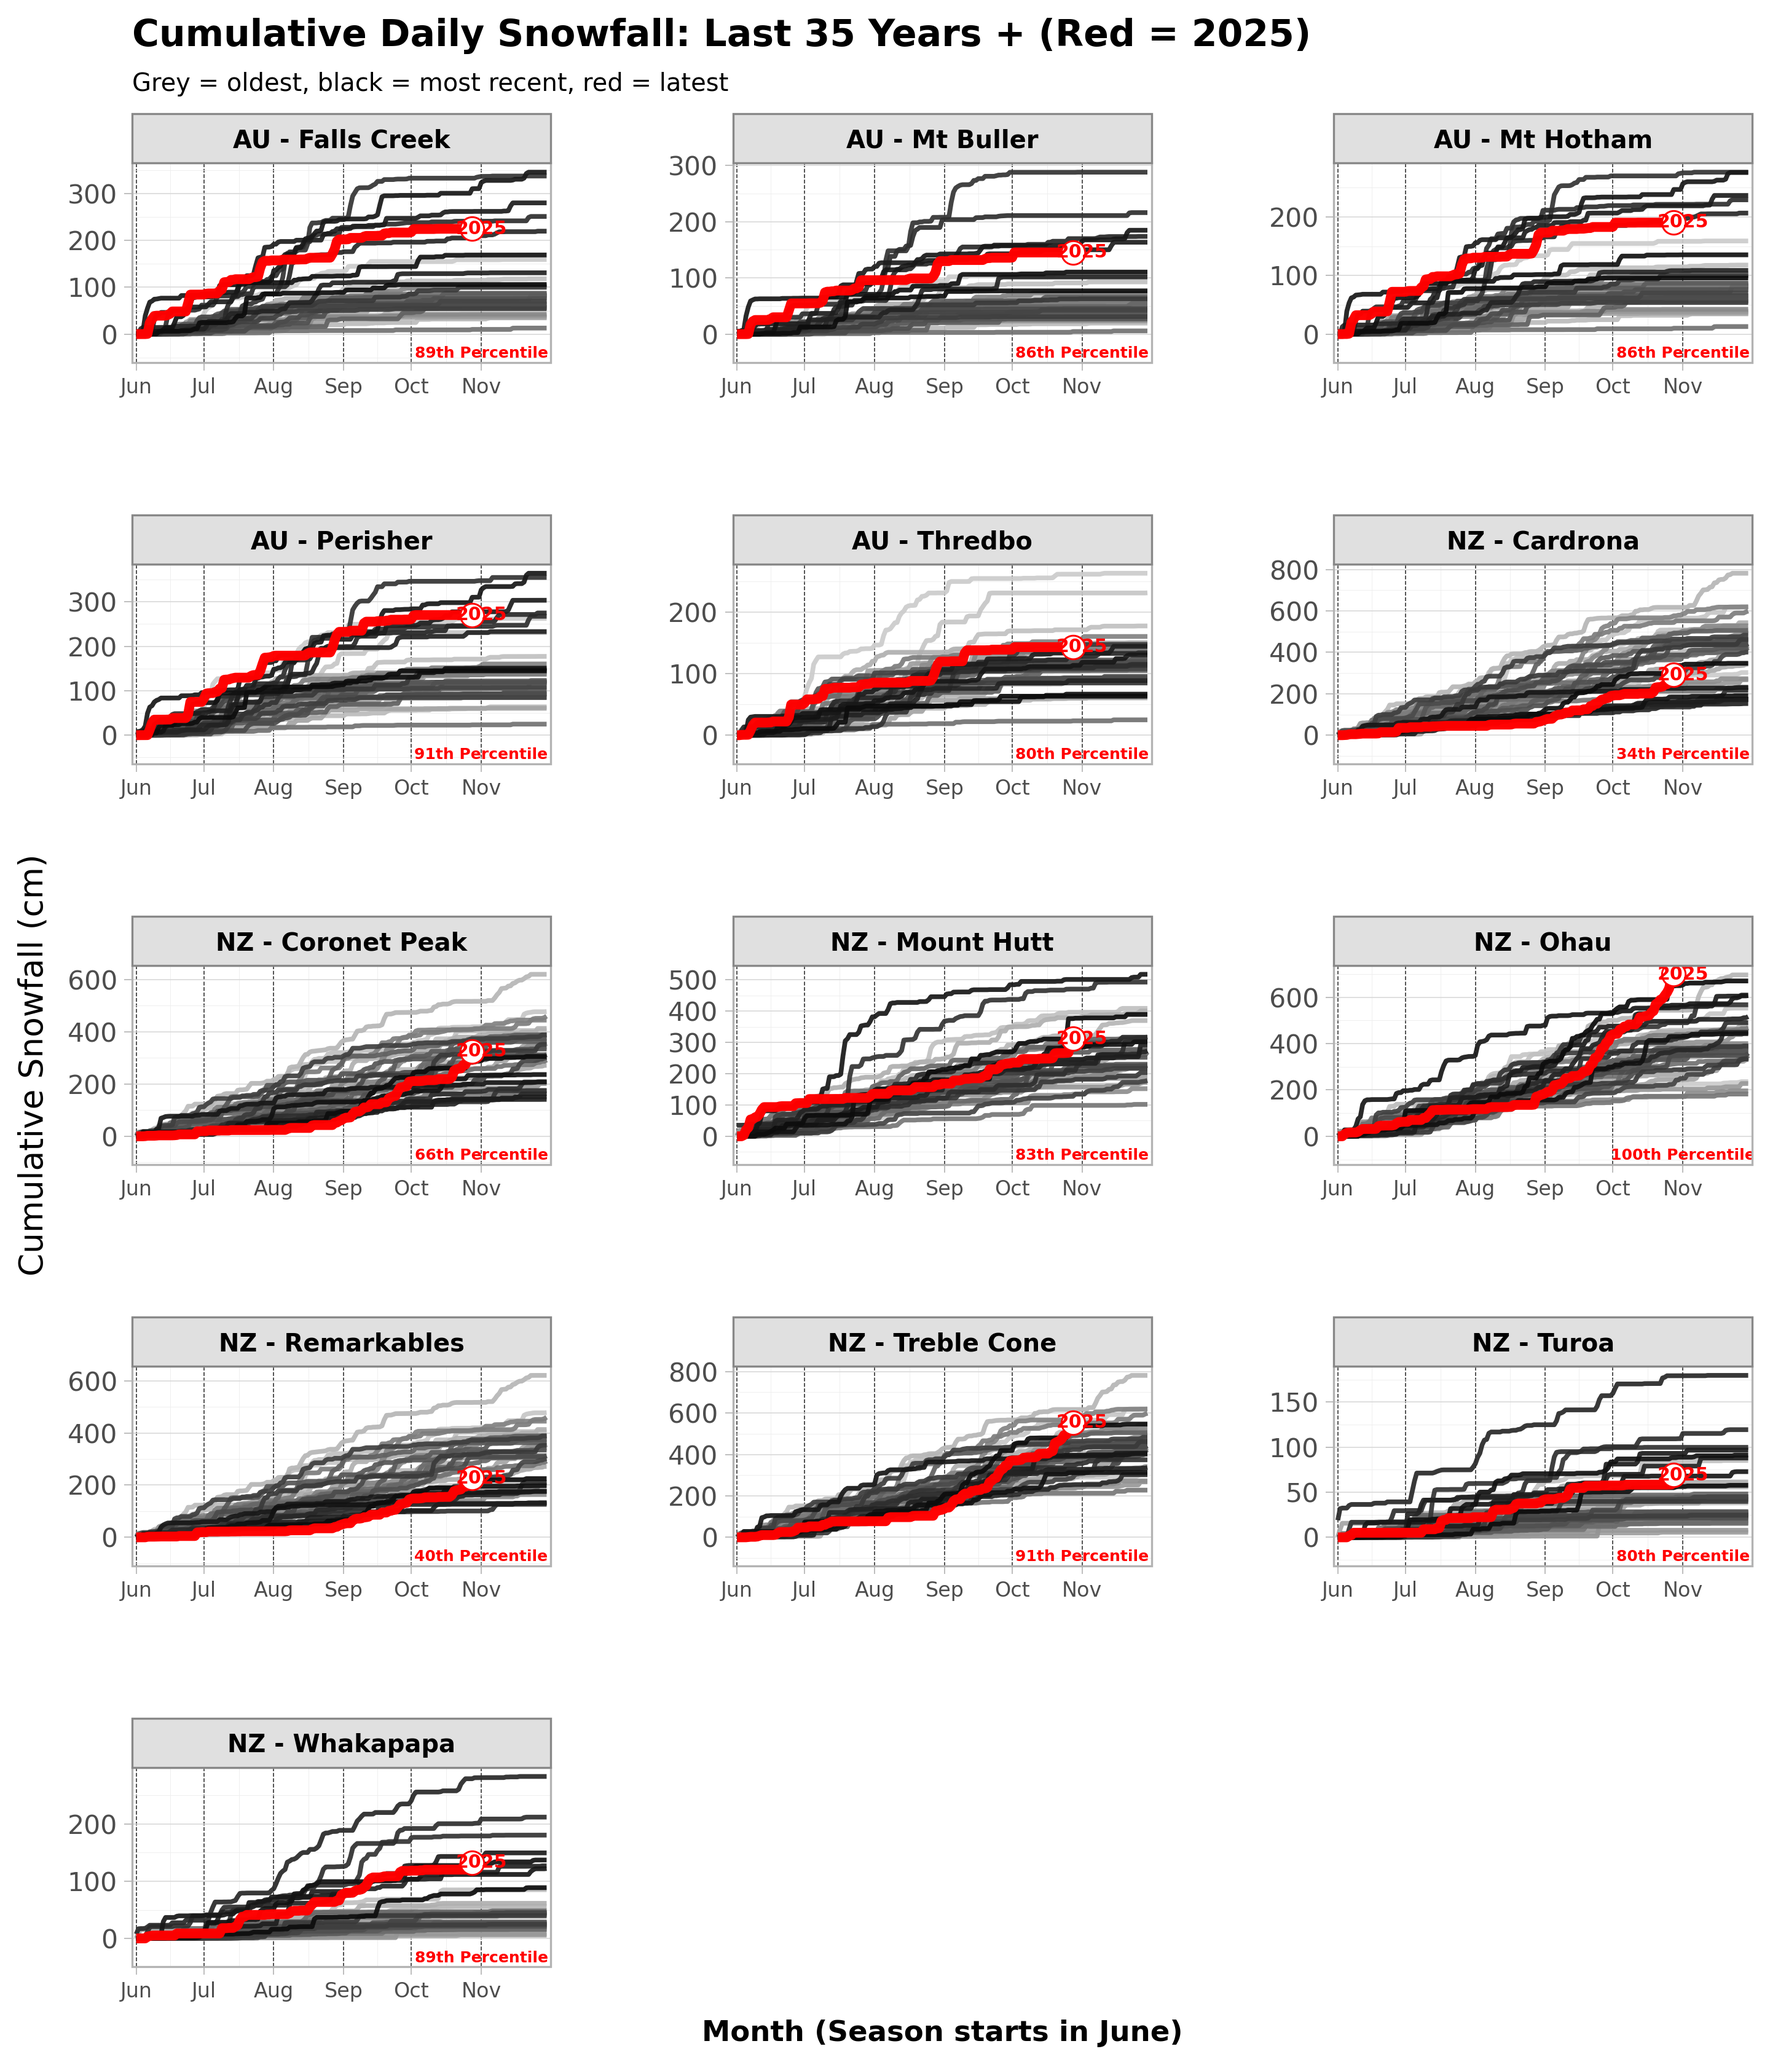
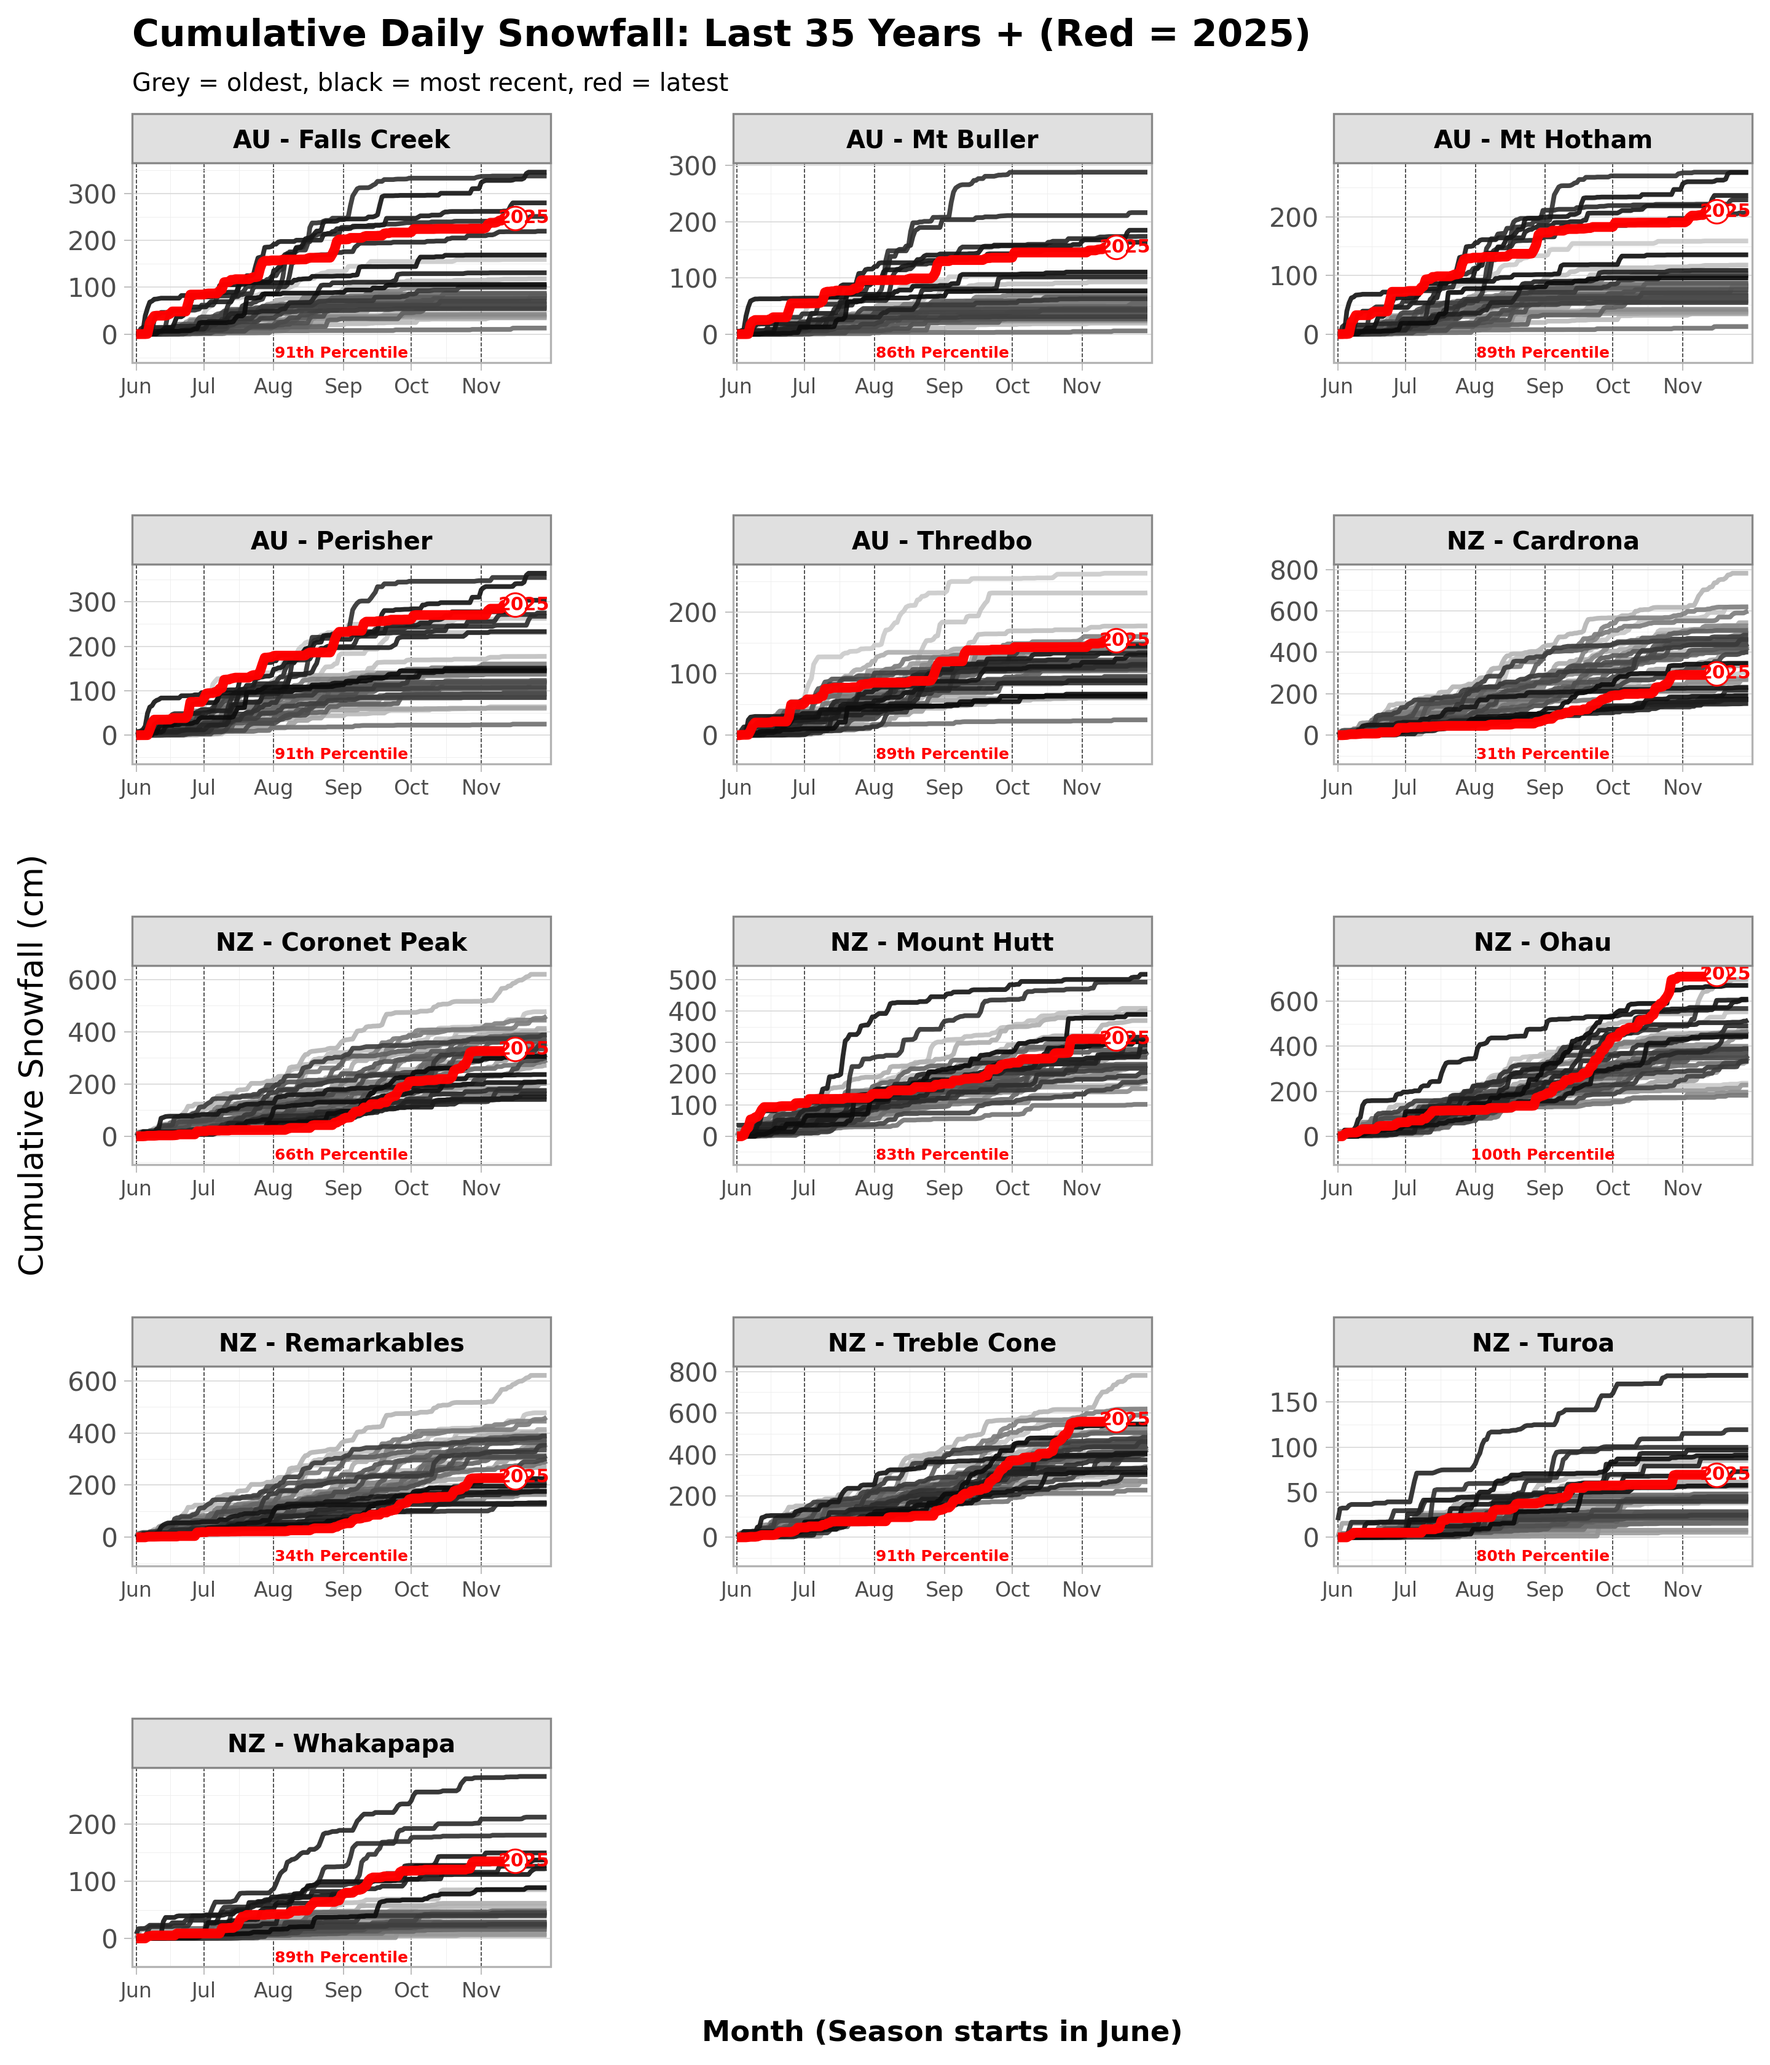
Small fix to chart label position

diff --git a/scripts/Cumulative_snow.py b/scripts/Cumulative_snow.py
@@ -121,14 +121,22 @@ for facet in df['facet_label'].unique():
     else:
         pct = 0
 
-    # Place label below x axis:
+    # compute facet x-range and place label at its center (clamped away from edges)
+    facet_days = df[df['facet_label'] == facet]['day_of_season']
+    min_day = int(facet_days.min())
+    max_day_overall = int(facet_days.max())
+    # center and margin (at least 3 days)
+    raw_center = (min_day + max_day_overall) / 2
+    margin = max(3, int(0.05 * (max_day_overall - min_day)))
+    x_center = float(min(max(raw_center, min_day + margin), max_day_overall - margin))
+
+    # vertical placement below plot
     min_y = df[df['facet_label'] == facet]['cumulative_snowfall_cm'].min()
     y_below = min_y - 0.12 * (df[df['facet_label'] == facet]['cumulative_snowfall_cm'].max() - min_y)
-    x_beyond = max_day + 4
 
     percentile_labels.append({
         'facet_label': facet,
-        'day_of_season': x_beyond,
+        'day_of_season': x_center,
         'cumulative_snowfall_cm': y_below,
         'percent_label': f"{pct:.0f}th Percentile"
     })
